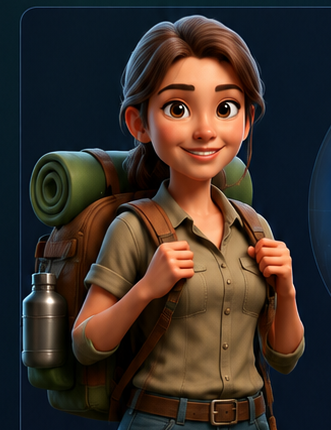
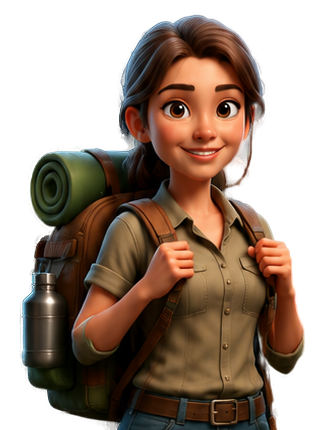
v0.6.1: map questions identify-only, transparent character art
- Turn off tap-the-map questions (touch accuracy); map questions are now
  "name the highlighted country" only (ENABLE_MAP_SELECT flag to restore later)
- Replace the three character PNGs with true transparent cut-outs (the old
  files had an opaque navy background baked in) and fade the menu portrait's
  flat waist crop

Claude-Session: https://claude.ai/code/session_01L9EDBxSFZLS2k6oeVdHeSx

diff --git a/src/app.js b/src/app.js
@@ -1,5 +1,5 @@
 const STORAGE_KEY = "geospark3.passport";
-const APP_VERSION = "0.6.0";
+const APP_VERSION = "0.6.1";
 const PASSPORT_VERSION = 2;
 
 // Pacing is shared by every character so characters can be switched without losing progress.
@@ -125,6 +125,7 @@ const EUROPE_CORE = new Set([
   "Austria", "Belgium", "Croatia", "Czechia", "Denmark", "Finland",
   "Hungary", "Iceland", "Romania", "Switzerland", "Ukraine",
 ]);
+const ENABLE_MAP_SELECT = false;
 const EUROPE_MAP_LEVEL_START = 5; // level number (1-based) in Stage 1 for non-Pilot characters
 const EUROPE_MICROSTATES = new Set(["Andorra", "Liechtenstein", "Luxembourg", "Malta", "Monaco", "San Marino", "Vatican City"]);
 const EUROPE_PIN_POSITIONS = {
@@ -1003,7 +1004,8 @@ function adaptiveWeight(item) {
 function chooseQuestionType(pool, mapPool) {
   const archetype = getArchetype();
   if (mapPool.length >= 4 && Math.random() < archetype.mapRate) {
-    return Math.random() < 0.5 ? "mapIdentify" : "mapSelect";
+    // Tap-the-map questions are switched off for now (touch accuracy); only "name the highlighted country".
+    return ENABLE_MAP_SELECT && Math.random() < 0.5 ? "mapSelect" : "mapIdentify";
   }
   const countries = pool.filter(isCountry);
   const states = pool.filter(isUSState);

diff --git a/index.html b/index.html
@@ -95,7 +95,7 @@
       <div class="section-label">Journey Map</div>
       <div class="stage-track" id="stage-track"></div>
       <div class="menu-footer">
-        <div class="version-label" id="menu-version">GeoSpark v0.6.0</div>
+        <div class="version-label" id="menu-version">GeoSpark v0.6.1</div>
         <button class="text-btn" id="new-game-btn" type="button">Reset passport</button>
       </div>
 
@@ -248,7 +248,7 @@
         <button class="secondary-btn hidden" id="result-review-btn" type="button">Review these in Learning</button>
         <button class="secondary-btn" id="result-menu-btn" type="button">Return to Menu</button>
       </div>
-      <div class="version-label" id="result-version">GeoSpark v0.6.0</div>
+      <div class="version-label" id="result-version">GeoSpark v0.6.1</div>
     </section>
 
     <div class="toast-stack" id="toast-stack" aria-live="polite"></div>

diff --git a/src/styles.css b/src/styles.css
@@ -1871,3 +1871,9 @@ h1 {
 .question-panel:has(.flag-display.empty) h2 {
   font-size: 30px;
 }
+
+/* Character art is now a transparent cut-out; fade the flat waist crop instead of a hard edge */
+.menu-character-art {
+  -webkit-mask-image: linear-gradient(to bottom, #000 72%, transparent 98%);
+  mask-image: linear-gradient(to bottom, #000 72%, transparent 98%);
+}

diff --git a/sw.js b/sw.js
@@ -1,4 +1,4 @@
-const CACHE_NAME = 'geospark3-v0.6.0';
+const CACHE_NAME = 'geospark3-v0.6.1';
 const APP_SHELL = [
   './',
   './index.html',

diff --git a/README.md b/README.md
@@ -2,7 +2,7 @@
 
 A mobile-first geography progression game (PWA, also wrapped for Android as a TWA in `GeoSparkTWA/`).
 
-Current game version: `0.6.0`
+Current game version: `0.6.1`
 
 ## Versioning
 
